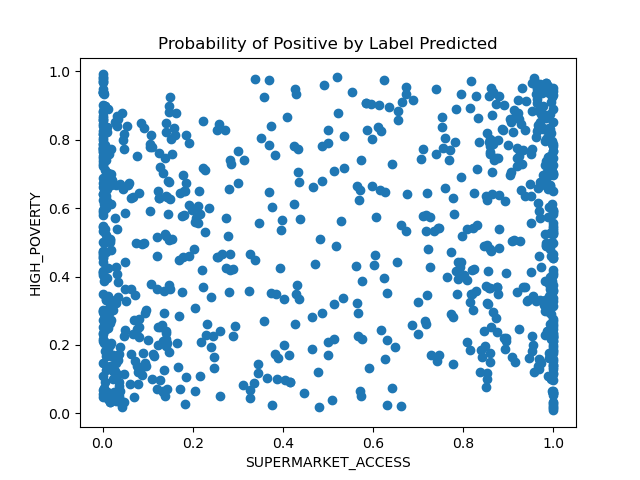
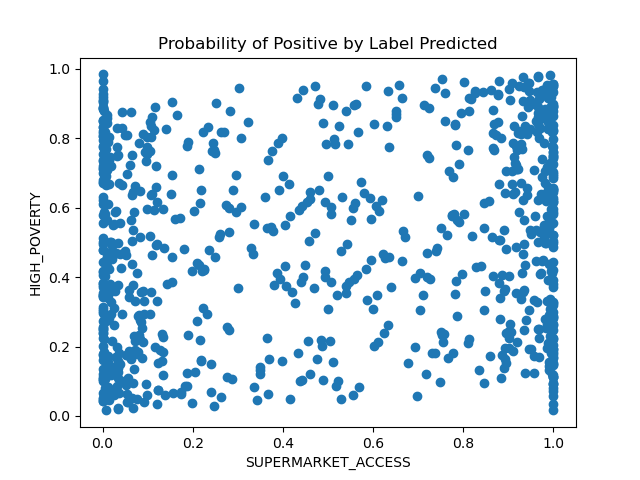
images

diff --git a/log_reg.py b/log_reg.py
@@ -58,12 +58,14 @@ def main():
     prob_pos = [] 
     df = util.process_txt("NeighborhoodFoodRetail.csv")
 
-    logreg = LogisticRegression(random_state=16, max_iter=500)
-
     for i in label_col:
+        # logreg = LogisticRegression(random_state=16, max_iter=500)
         X, y = util.split_data(df, i)
         X_train, X_test, y_train, y_test = train_test_split(X, y, test_size=0.33, shuffle=False)
-        prob_pos.append(run_model(logreg, "log_reg", X_train, X_test, y_train, y_test, i))
+        print(X_train)
+        print(y_train)
+        clf = LogisticRegression(random_state=16, max_iter=500)
+        prob_pos.append(run_model( clf, "log_reg", X_train, X_test, y_train, y_test, i))
 
     visual(prob_pos[0], prob_pos[1], label_col)
 

diff --git a/util.py b/util.py
@@ -41,7 +41,7 @@ def split_data(df, label_col):
     X = df.loc[:, df.columns != label_col]
     
 
-    return y, X
+    return X, y
 
 # def parse_args():
 #     """Parse command line arguments (train and test arff files)."""
